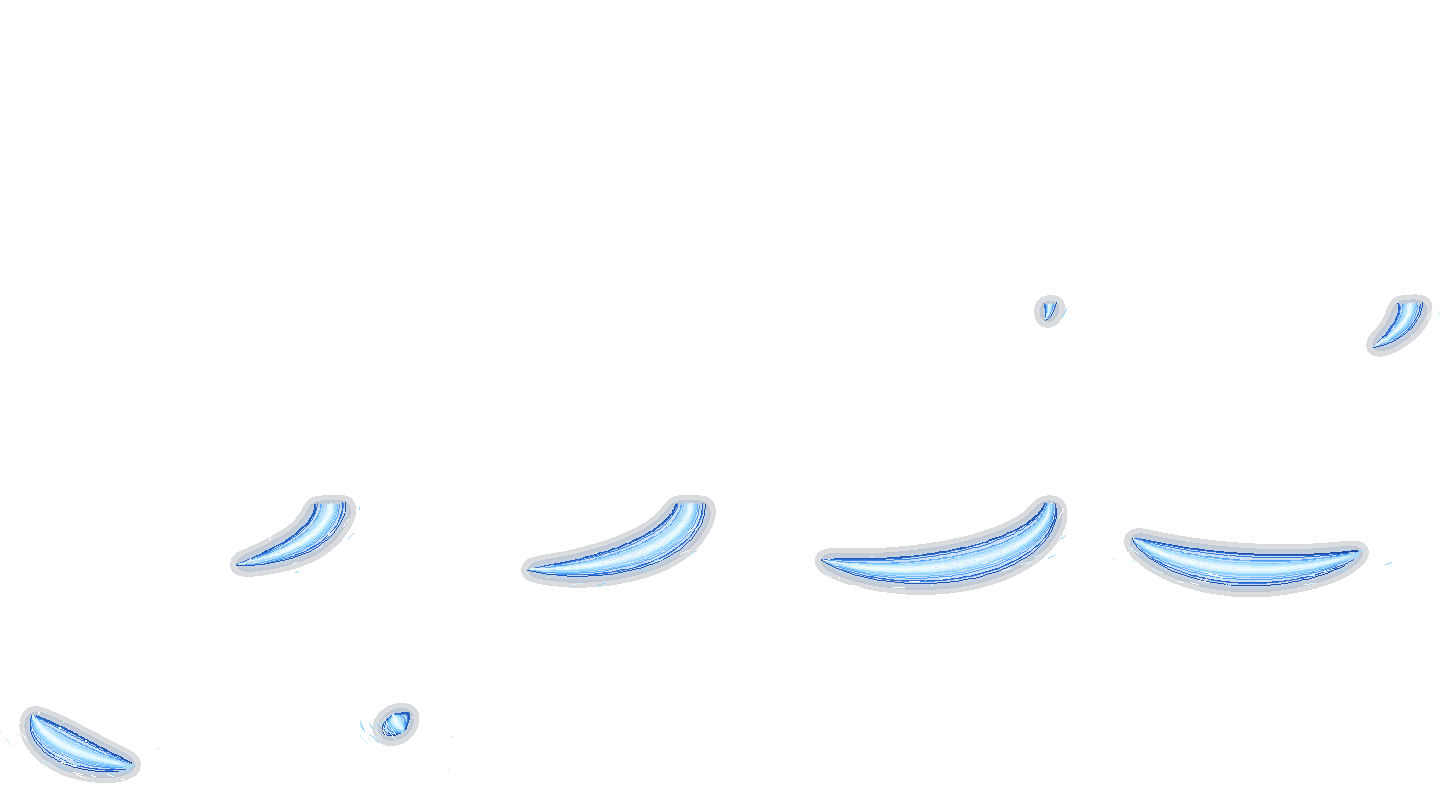
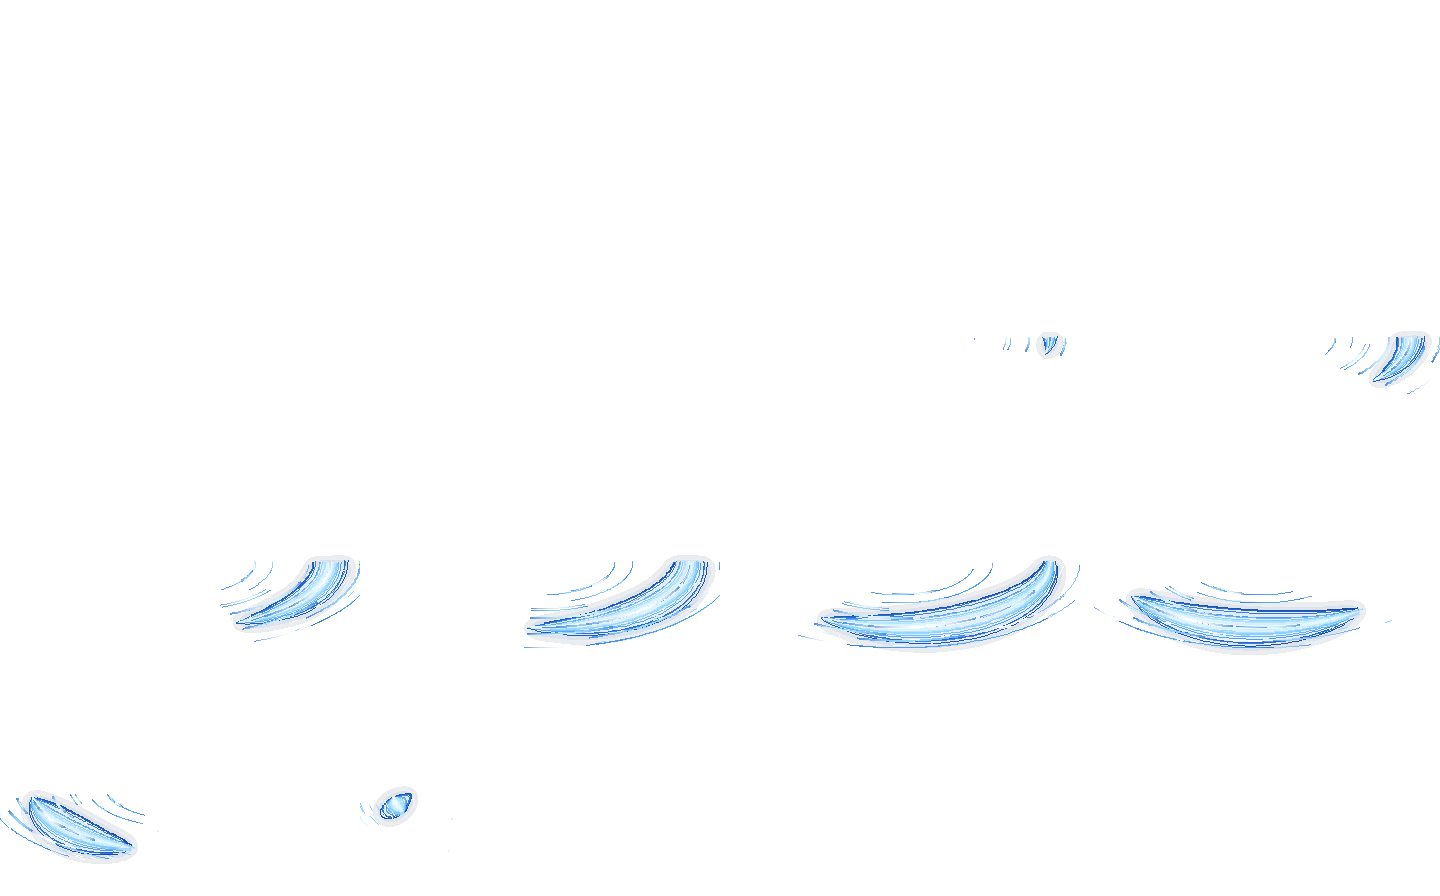
Elip C: thêm sợi mảnh lẻ nhiều bán kính, giảm quầng xám
Claude-Session: https://claude.ai/code/session_01MYwTvK6dULdzXHFPeBSgyd

diff --git a/game/index.html b/game/index.html
@@ -1746,7 +1746,7 @@ const VFX={};['arc_sheet','wanjian_sword','petal','rulai_crater','taiji','ink_sl
 // VFX Tôn Ngộ Không (PixelLab pro): lưới đều, khung theo hàng; px,py = tâm (người/điểm nện/điểm trúng)
 const SPX={wk_arc:{w:187,h:302,c:3,n:9,px:66,py:246},wk_puff2:{w:35,h:24,c:3,n:7,px:20,py:17},wk_slash:{w:192,h:193,c:3,n:9,px:75,py:107},wk_thrust:{w:232,h:80,c:3,n:7,px:29,py:19},wk_hit:{w:85,h:84,c:3,n:9,px:40,py:43},
  wk_stomp:{w:159,h:176,c:8,n:8,px:80,py:112},wk_roar:{w:260,h:275,c:8,n:8,px:41,py:194},wk_summon:{w:251,h:259,c:8,n:8,px:125,py:202},wk_whirl:{w:197,h:213,c:8,n:8,px:101,py:121},wk_cloud:{w:140,h:104,c:4,n:10,px:70,py:52},wk_puff:{w:97,h:92,c:3,n:9,px:52,py:44},
- sw_a:{w:140,h:45,c:3,n:8,px:68,py:44},swhit:{w:64,h:64,c:3,n:6,px:32,py:32},k5a_front:{w:82,h:103,c:3,n:6,px:-36,py:106},k5b_front:{w:124,h:163,c:3,n:6,px:22,py:151},k5c_behind:{w:360,h:200,c:4,n:15,px:180,py:144},k5c_front:{w:360,h:200,c:4,n:15,px:180,py:144},hv_mark:{w:128,h:66,c:5,n:17,px:64,py:33},hv_vortex_b:{w:191,h:92,c:4,n:14,px:96,py:98},hv_vortex_f:{w:209,h:100,c:6,n:28,px:106,py:100},hv_ring:{w:137,h:131,c:5,n:19,px:69,py:83},tx_in:{w:365,h:604,c:11,n:30,px:215,py:520},tx_loop:{w:309,h:278,c:13,n:60,px:155,py:196},tx_out:{w:304,h:269,c:11,n:11,px:153,py:187},vk_e:{w:838,h:316,c:4,n:46,px:198,py:213},hp_guard:{w:128,h:128,c:1,n:1,px:64,py:64},hp_imp:{w:48,h:48,c:8,n:8,px:24,py:24},hp_star:{w:64,h:64,c:10,n:10,px:32,py:32},wx_slash:{w:96,h:96,c:4,n:8,px:48,py:48},zs1:{w:101,h:87,c:3,n:9,px:44,py:102},zs2:{w:108,h:122,c:3,n:7,px:32,py:117},zs3:{w:87,h:88,c:3,n:9,px:30,py:90},slash_el:{w:48,h:80,c:3,n:8,px:24,py:40},swqi:{w:64,h:48,c:3,n:6,px:36,py:24},sw_arc:{w:96,h:96,c:3,n:7,px:46,py:49},
+ sw_a:{w:140,h:45,c:3,n:8,px:68,py:44},swhit:{w:64,h:64,c:3,n:6,px:32,py:32},k5a_front:{w:82,h:103,c:3,n:6,px:-36,py:106},k5b_front:{w:124,h:163,c:3,n:6,px:22,py:151},k5c_behind:{w:360,h:224,c:4,n:15,px:180,py:154},k5c_front:{w:360,h:224,c:4,n:15,px:180,py:154},hv_mark:{w:128,h:66,c:5,n:17,px:64,py:33},hv_vortex_b:{w:191,h:92,c:4,n:14,px:96,py:98},hv_vortex_f:{w:209,h:100,c:6,n:28,px:106,py:100},hv_ring:{w:137,h:131,c:5,n:19,px:69,py:83},tx_in:{w:365,h:604,c:11,n:30,px:215,py:520},tx_loop:{w:309,h:278,c:13,n:60,px:155,py:196},tx_out:{w:304,h:269,c:11,n:11,px:153,py:187},vk_e:{w:838,h:316,c:4,n:46,px:198,py:213},hp_guard:{w:128,h:128,c:1,n:1,px:64,py:64},hp_imp:{w:48,h:48,c:8,n:8,px:24,py:24},hp_star:{w:64,h:64,c:10,n:10,px:32,py:32},wx_slash:{w:96,h:96,c:4,n:8,px:48,py:48},zs1:{w:101,h:87,c:3,n:9,px:44,py:102},zs2:{w:108,h:122,c:3,n:7,px:32,py:117},zs3:{w:87,h:88,c:3,n:9,px:30,py:90},slash_el:{w:48,h:80,c:3,n:8,px:24,py:40},swqi:{w:64,h:48,c:3,n:6,px:36,py:24},sw_arc:{w:96,h:96,c:3,n:7,px:46,py:49},
  cA_behind:{w:132,h:128,c:3,n:6,px:74,py:136},cA_front:{w:73,h:14,c:2,n:4,px:-39,py:57},cB_behind:{w:90,h:124,c:3,n:6,px:17,py:130},cB_front:{w:104,h:162,c:3,n:6,px:13,py:148},cC_behind:{w:151,h:23,c:3,n:7,px:76,py:62},cC_front:{w:191,h:72,c:3,n:7,px:100,py:65},sw_b:{w:62,h:90,c:3,n:9,px:6,py:79},sw_c:{w:176,h:148,c:4,n:10,px:88,py:74}};  // combo kiếm: cA/cB/cC theo ảnh chủ game, lớp behind (sau người) + front (trước người), mốc = chân
 const isWk=()=>P.god&&P.god.def.look==='wukong';
 // Gậy Như Ý do PixelLab vẽ riêng ở độ phân giải gốc (không phóng to): đầu bịt trên + 1 hàng thân + đầu bịt dưới. Kéo dài chỉ lặp hàng thân. Vẽ dọc từ y=0 xuống y=len.

diff --git a/cong_cu/claude/c_ellipse.py b/cong_cu/claude/c_ellipse.py
@@ -4,7 +4,7 @@ Ra k5c_behind.png / k5c_front.png: ô 360x160, 15 khung, 4 cột. python3 c_elli
 import math,random,sys
 from PIL import Image,ImageDraw,ImageFilter
 OUT=sys.argv[1] if len(sys.argv)>1 else 'game/assets/vfx/'
-N=15;CW,CH=360,200;COLS=4;CX,CY=180,104
+N=15;CW,CH=360,224;COLS=4;CX,CY=180,114
 RX,RY=150,66
 M=18
 PAL=[(255,255,255),(214,244,255),(150,214,255),(86,168,250),(44,112,214),(28,72,160)]
@@ -34,7 +34,7 @@ def sheet(name,front):
                     u0=tail+(head-tail)*s['a'];u1=tail+(head-tail)*s['b'];n=70;pts=[]
                     for i in range(n+1):
                         u=u0+(u1-u0)*i/n;sv=(u-tail)/max(1e-6,head-tail)
-                        W=56*prof(sv)*(0.6+0.4*s['d'])
+                        W=64*prof(sv)*(0.6+0.4*s['d'])
                         a=ang(u);r=s['off']*W/2
                         nx,ny=math.cos(a)/RX,math.sin(a)/RY;nl=math.hypot(nx,ny);nx/=nl;ny/=nl
                         pts.append((a,CX+RX*math.cos(a)+nx*r,CY+RY*math.sin(a)+ny*r,sv))
@@ -50,8 +50,25 @@ def sheet(name,front):
                             fade=min(1,sv*5)*(1 if sv>0.0 else 0)
                             d.line([(x,y),(x2,y2)],fill=col+(255,),width=s['w'] if k>0.35 else s['w']+1)
             gl=gl.filter(ImageFilter.GaussianBlur(6))
-            al=gl.getchannel('A').point(lambda v:0 if v<25 else 40 if v<80 else 70);gl.putalpha(al)
+            al=gl.getchannel('A').point(lambda v:0 if v<45 else 22 if v<110 else 40);gl.putalpha(al)
             base=Image.new('RGBA',(CW,CH),(0,0,0,0));base.alpha_composite(gl);base.alpha_composite(im);im=base;d=ImageDraw.Draw(im)
+            # --- sợi mảnh lẻ ở nhiều bán kính (trong & ngoài), dài ngắn khác nhau, như ảnh mẫu
+            wr=random.Random(5+f*0+(1 if front else 0))
+            for si in range(34):
+                sc_=wr.choice([0.5,0.62,0.74,0.86,1.0,1.1,1.2,1.3]) if wr.random()<0.8 else wr.uniform(0.45,1.35)
+                a0=wr.uniform(0.0,0.85);L=wr.uniform(0.18,0.55);b0=a0+L
+                u0=tail+(head-tail)*a0;u1=tail+(head-tail)*min(1,b0)
+                if u1-u0<0.03:continue
+                ww=wr.choice([1,1,1,2]);tone=wr.choice([PAL[0],PAL[1],PAL[1],PAL[2],PAL[2],PAL[3]])
+                n=50
+                for i in range(n):
+                    ua=u0+(u1-u0)*i/n;ub=u0+(u1-u0)*(i+1)/n
+                    if (math.sin(ang((ua+ub)/2))>0)!=front:continue
+                    s_=i/n;al=max(0.0,math.sin(math.pi*s_))**0.6
+                    if al<0.25:continue
+                    xa=CX+RX*sc_*math.cos(ang(ua));ya=CY+RY*sc_*math.sin(ang(ua));xb=CX+RX*sc_*math.cos(ang(ub));yb=CY+RY*sc_*math.sin(ang(ub))
+                    col=tuple(int(tone[j]*al+ (44,112,214)[j]*(1-al)) for j in range(3))
+                    d.line([(xa,ya),(xb,yb)],fill=col+(255,),width=ww)
             # vệt gió ngắn ngoài vòng + hạt
             for _ in range(22):
                 u=rnd.uniform(tail,head);a=ang(u)

diff --git a/CLAUDE.md b/CLAUDE.md
@@ -147,3 +147,4 @@ Chủ game xem các bản làm lại (khung 7/7/12 theo guide, chuỗi Hovl, VFX
 - Góc kiếm 10 khung C trong `WSOCK` (khóa `2240..3680,256`, cả nam/nữ) đổi thành -150,-115,-75,-35,0,30,52,62,50,38: kiếm vung từ sau-trên đầu xuống trước theo vệt. Thân nhân vật không đổi (Master).
 - (24/11 tối) Elip C v2: bản đầu bị chê xấu vì phẳng như vector. `c_ellipse.py` giờ dựng 3 dải lồng nhau (ngoài mảnh, chính dày 5 lớp màu viền→lõi trắng, trong ngắn), quầng sáng mờ, vệt tốc độ + hạt. Chạy: `python3 cong_cu/claude/c_ellipse.py` (tham số tùy chọn: thư mục ra).
 - (24/11 tối, v3) Chủ game gửi ảnh mẫu `nguon/tham_chieu/anh_mau_vfx_kiem.png` (elip dẹt rộng, chùm sợi mảnh, dày dưới-trái, trắng–xanh lam, quầng sáng). Không tách được vòng sạch từ ảnh (bị nhân vật/quái/nền đè) nên `c_ellipse.py` dựng bám đúng hình dạng đó. Ô mới 360×200 (`SPX k5c_*: w360,h200,px180,py144`). **Màu ba đòn A/B/C đổi sang xanh lam–trắng**: `zs2` và `wx_slash` xoay hue +38° (gốc teal ở `nguon/vfx_goc/*_teal.png`).
+- (24/11 tối, v3b) Thêm ~34 sợi mảnh lẻ ở nhiều bán kính (0,45–1,35 lần elip), dài ngắn khác nhau, quầng sáng giảm để không ra viền xám trên nền tuyết. Ô k5c_* nay 360×224 (`py:154`).
